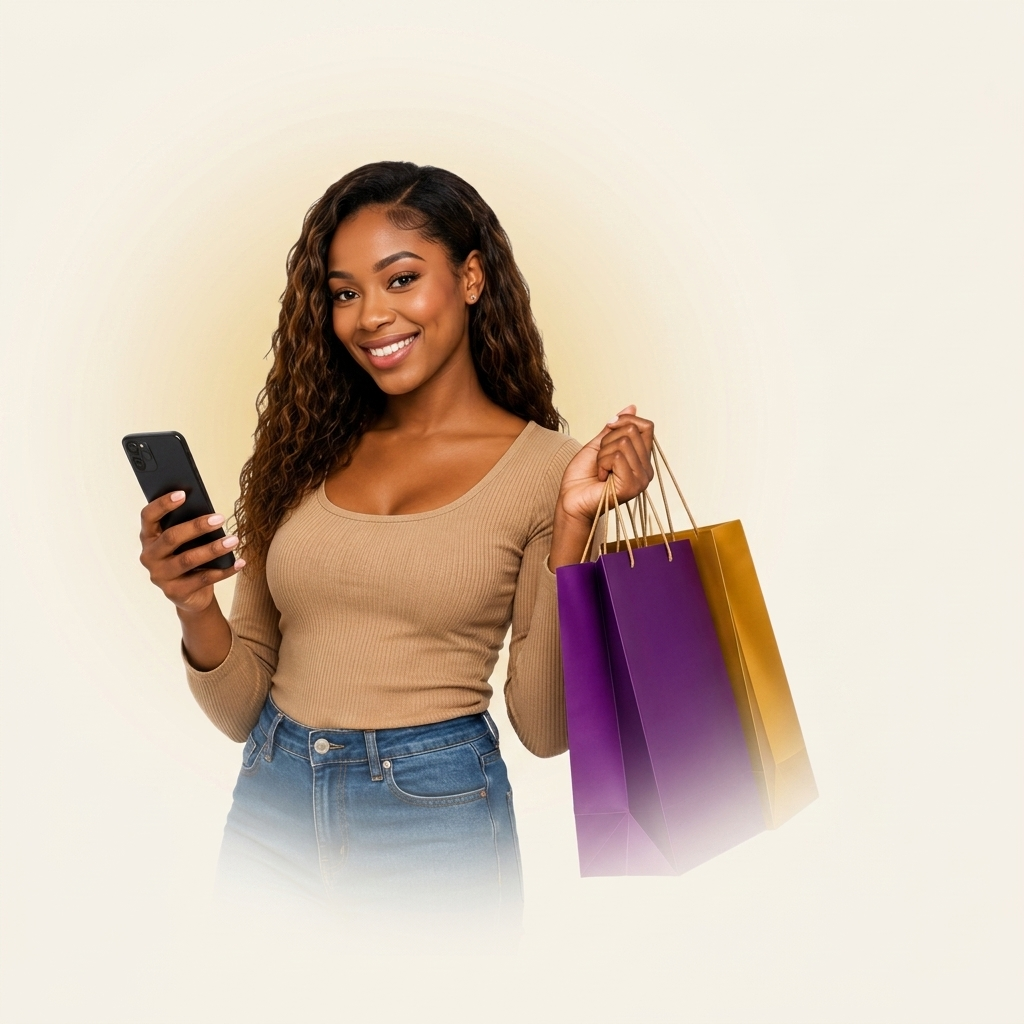
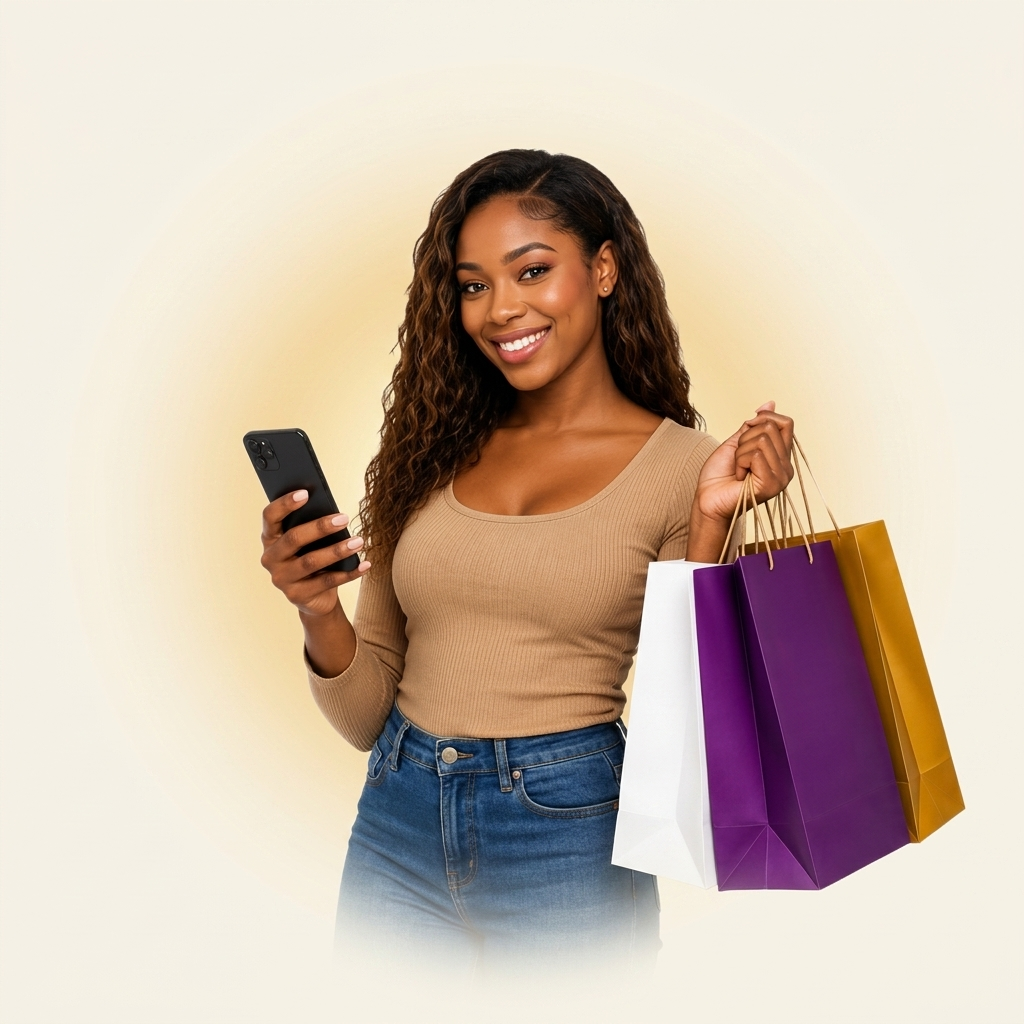
fix: hero image - cream bg, full height portrait, no blend hack

diff --git a/artifacts/nafex-hub/src/pages/explore.tsx b/artifacts/nafex-hub/src/pages/explore.tsx
@@ -257,16 +257,12 @@ export default function Explore() {
           </div>
 
           {/* RIGHT — Hero Image */}
-          <div className="flex items-end justify-center relative overflow-hidden">
+          <div className="flex items-end justify-center relative overflow-hidden" style={{ minHeight: "460px" }}>
             <img
-              src="/home-hero.jpg"
+              src="/home-hero.png"
               alt="Nafex Hub Shopping"
-              className="w-full h-auto object-contain object-bottom"
-              style={{
-                maxHeight: "520px",
-                mixBlendMode: "multiply",
-                display: "block",
-              }}
+              className="absolute bottom-0 right-0 h-full w-auto object-contain object-bottom"
+              style={{ maxWidth: "100%", display: "block" }}
             />
           </div>
 
